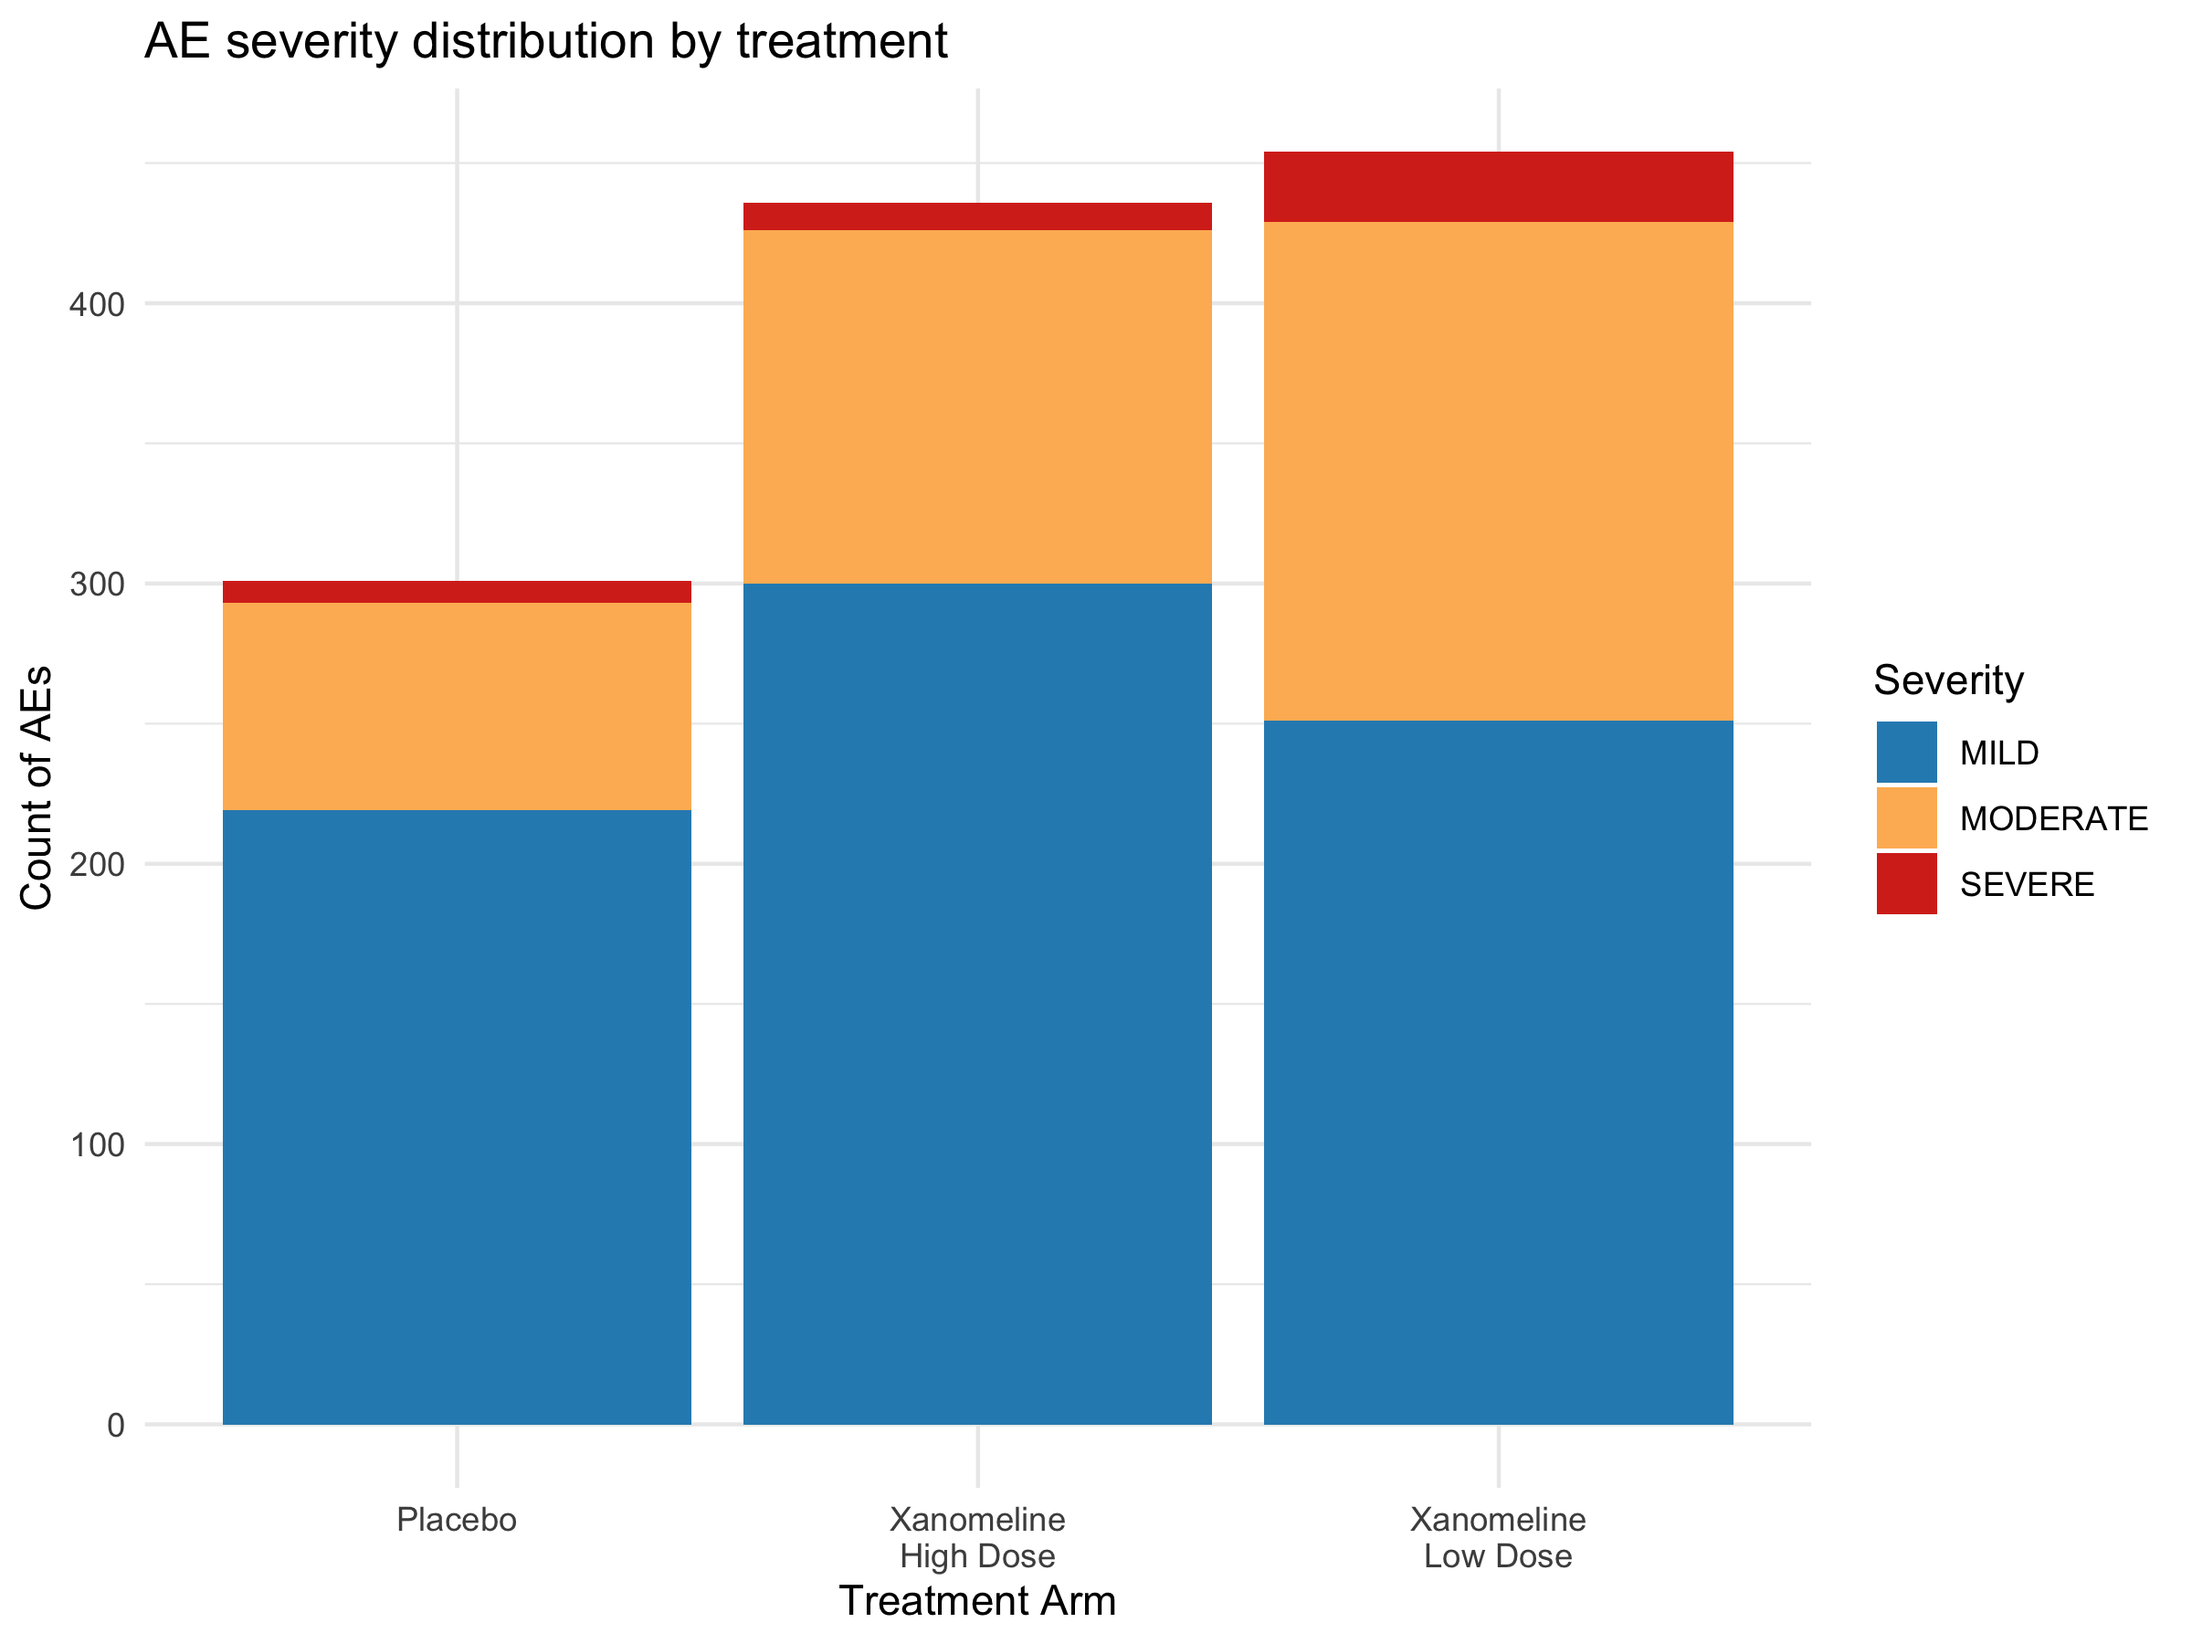
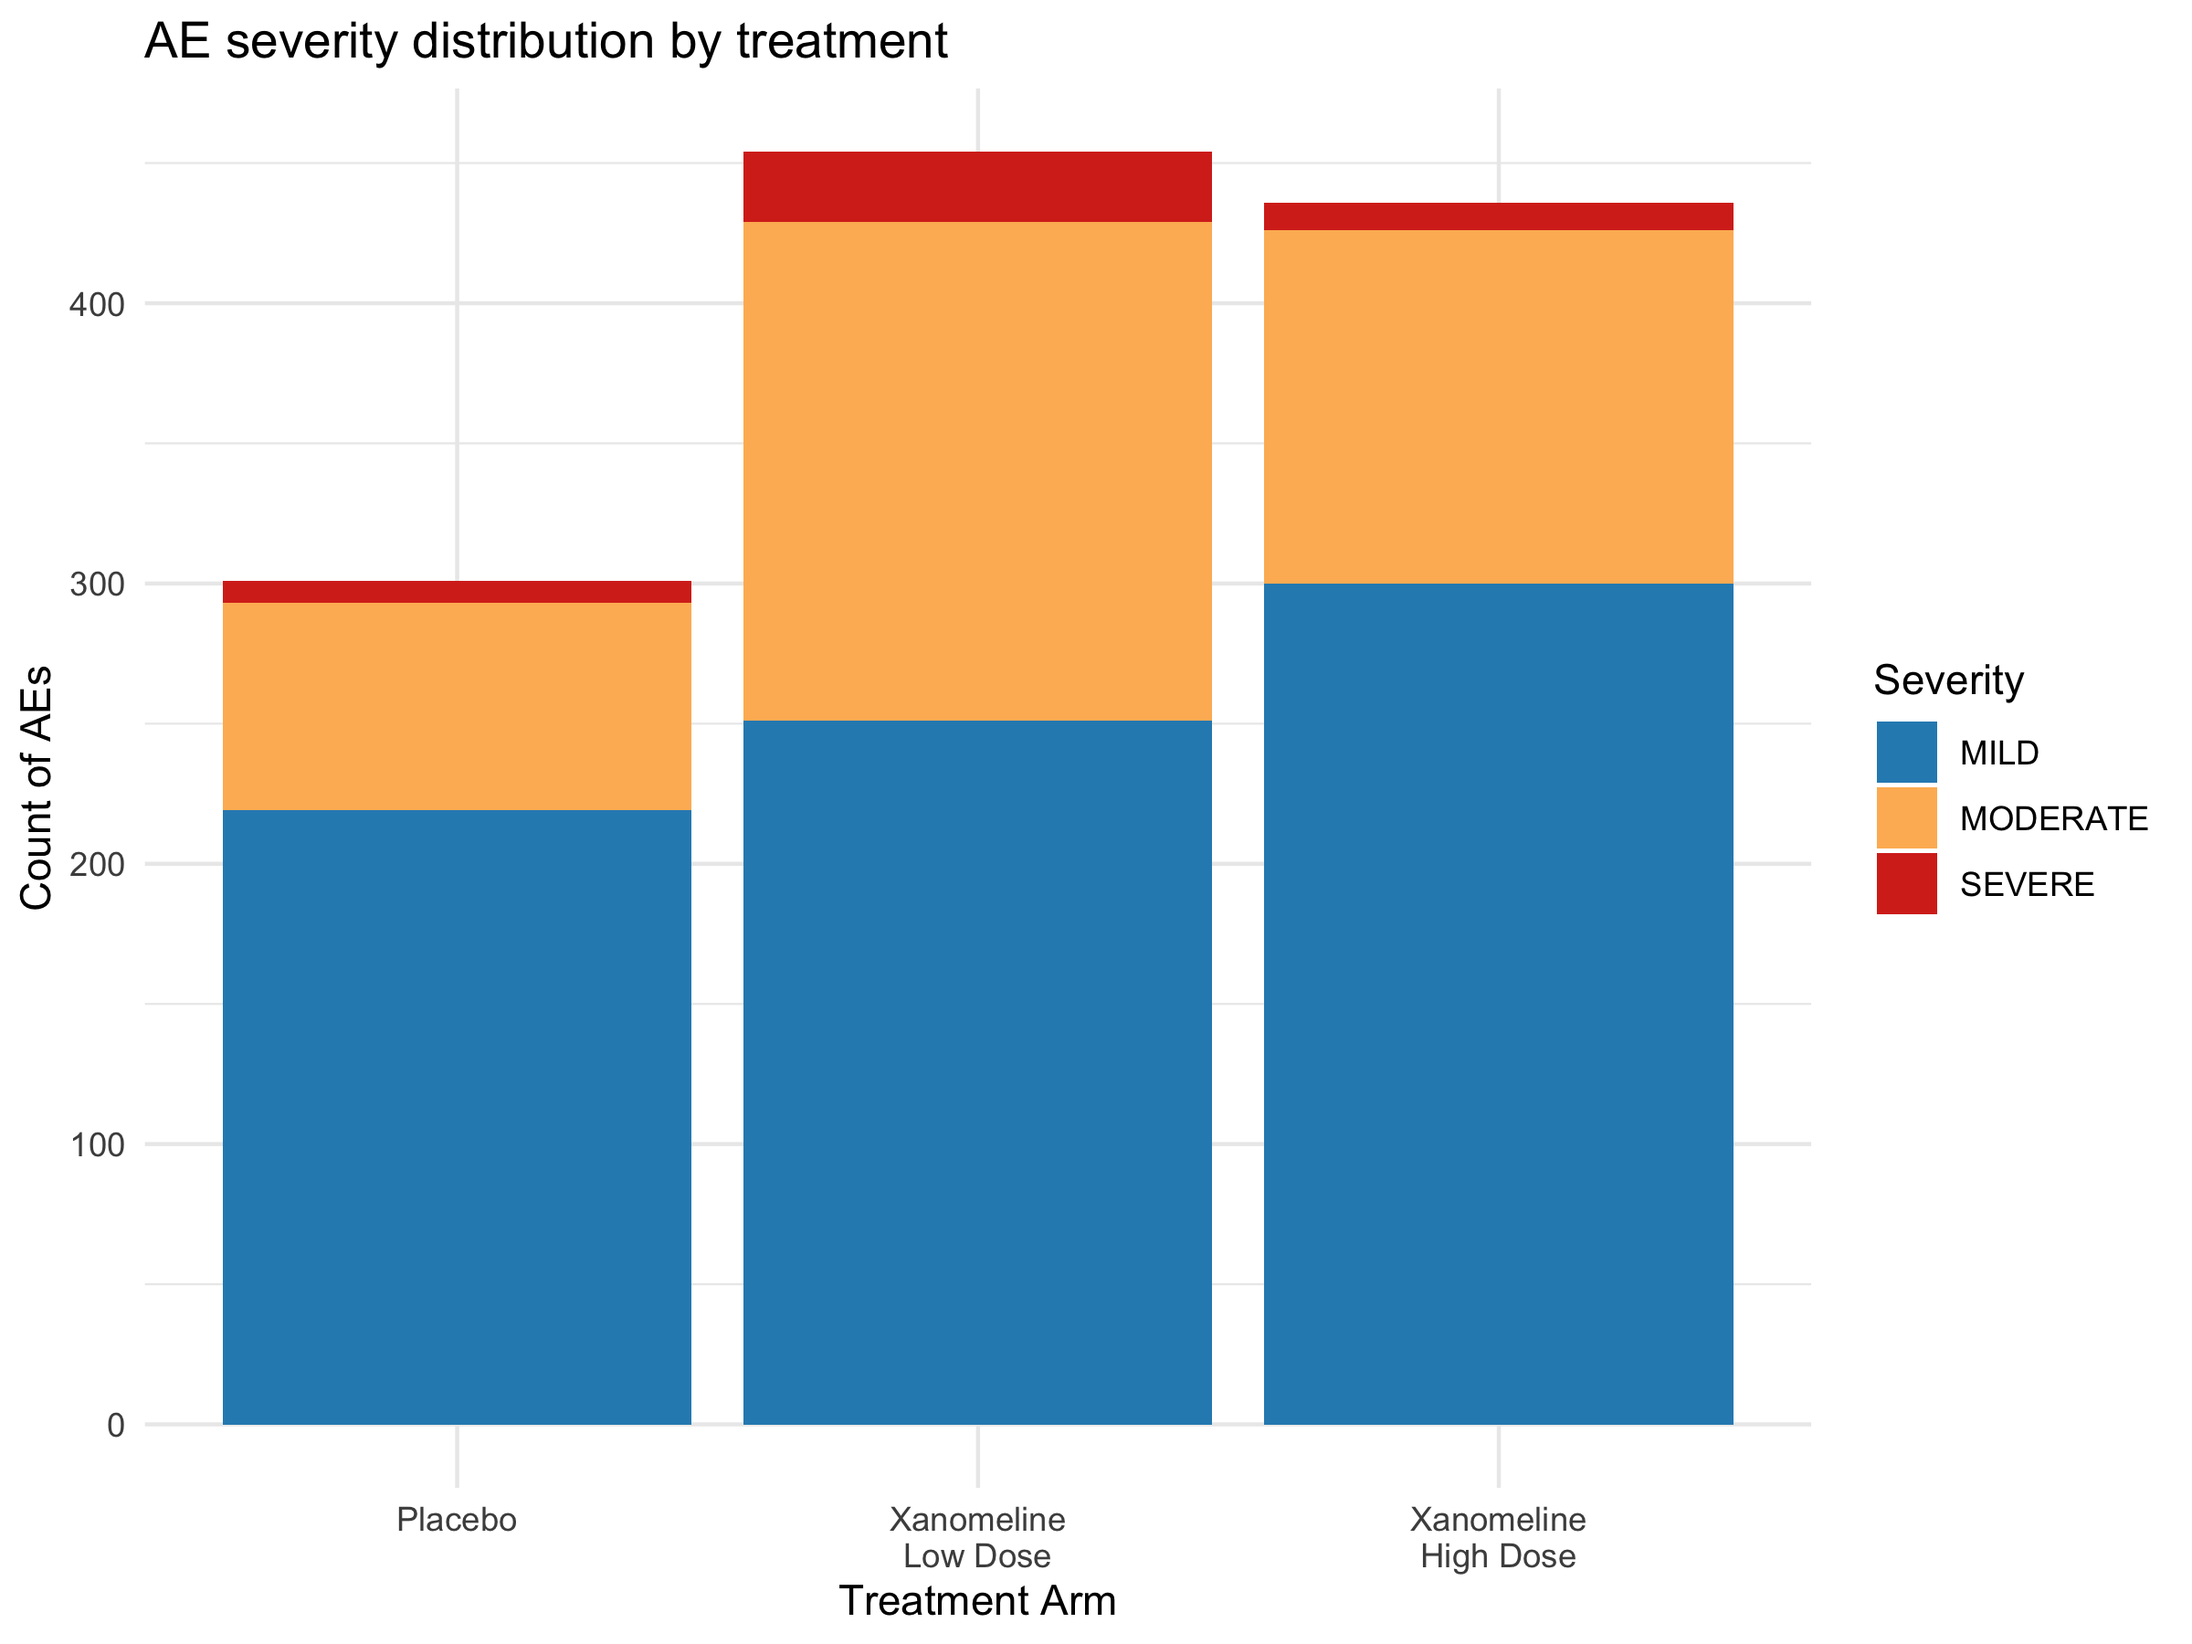
Q3: Improving visualisations

diff --git a/README.md b/README.md
@@ -7,7 +7,7 @@ Solutions to the Pharmaverse (R) and Python coding assessment.
 | Folder | Question | Main script(s) | Outputs |
 |---|---|---|---|
 | [`question_1_sdtm/`](question_1_sdtm/) | Q1 – SDTM DS domain with `{sdtm.oak}` | `01_create_ds_domain.R` | `output/ds.*`, `logs/*.log` |
-| [`question_2_adam/`](question_2_adam/) | Q2 – ADaM ADSL with `{admiral}` | `create_adsl.R` | `output/adsl.*`, `logs/*.log` |
+| [`question_2_adam/`](question_2_adam/) | Q2 – ADaM ADSL with `{admiral}` | `01_create_adsl.R` | `output/adsl.*`, `logs/*.log` |
 | [`question_3_tlg/`](question_3_tlg/) | Q3 – AE summary table and plots | `01_create_ae_summary_table.R`, `02_create_visualizations.R` | `output/ae_summary_table.html`, 2 × PNG, `logs/*.log` |
 | [`question_4_python/`](question_4_python/) | Q4 (bonus) – GenAI Clinical Data Assistant | `clinical_trial_data_agent.py`, `test_agent.py` | `logs/*.log` |
 
@@ -32,7 +32,6 @@ R ≥ 4.2.0. Run everything from the **repository root**, either in VS Code (bel
 
 ```r
 source("install_packages.R")   # once
-source("run_all.R")            # runs all scripts and writes logs
 ```
 
 To run one script and capture its log from a terminal:
